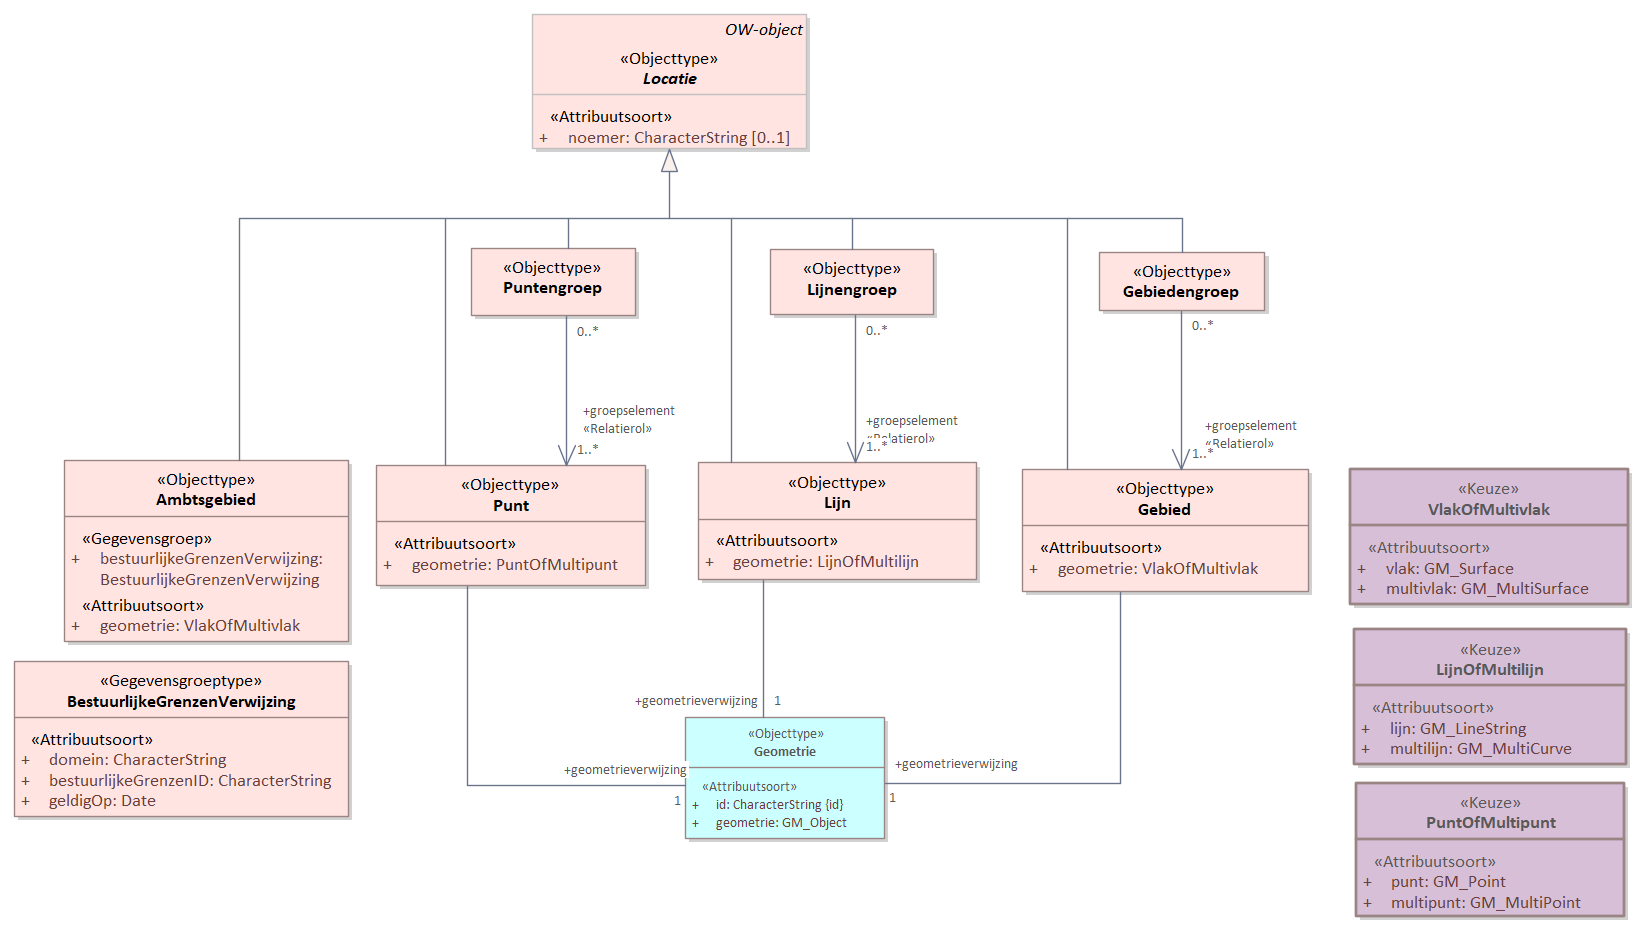
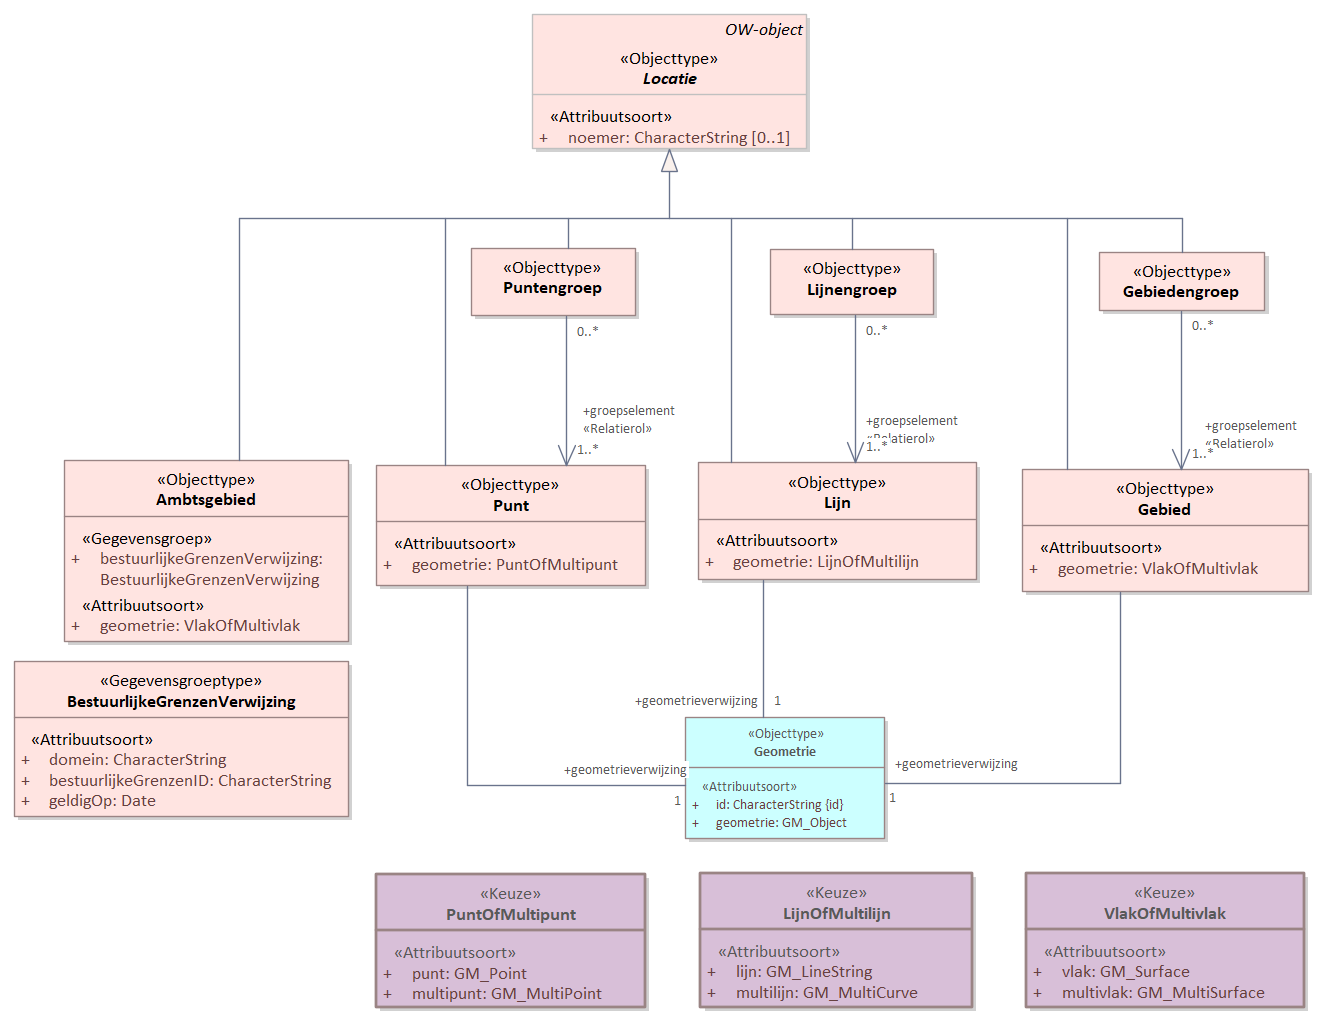
MIMCM-dso-cim-ow-1.0-0-20230213-20250630-154119

diff --git a/data/dso-cim-ow-cat.respec.html b/data/dso-cim-ow-cat.respec.html
@@ -1,4 +1,4 @@
-<!DOCTYPE HTML><section id="cat" class="normative"><h2>Gegevensdefinitie</h2><!--MIMCM-dso-cim-ow-1.0-0-20230213-20250630-151330 imvertor 4.3.0--><section id="global_packages"><h3>Model   dso-cim-ow</h3><section id="EAID_E3A46D6F_3ED0_4808_82AD_D7173DDFDAC4"><h4>   OW-OP - overzicht</h4><div class="imageinfo overview"><figure class="uml-diagram"><img id="EAID_E3A46D6F_3ED0_4808_82AD_D7173DDFDAC4" src="data/Images/EAID_E3A46D6F_3ED0_4808_82AD_D7173DDFDAC4.png" usemap="#imagemap-EAID_E3A46D6F_3ED0_4808_82AD_D7173DDFDAC4" alt="Diagram: OW-objecten maken een Regeling machine leesbaar en horen altijd bij precies één Regeling. OP-objectAnnotatie objecten zij OW-objecten die een 1 op 1 koppeling met een wId element in een Regeling hebben. Alle andere OW-objecten die bij de Regeling horen zijn via relaties aan de OP-objectannotatie en dus aan een DocumentComponent gekoppeld. Er zijn twee soorten annotaties: In Regelingen met artikelstructuur worden RegeltekstAnnotaties gebruikt die altijd naar een Artikel of Lid en verwijzen. In regelingen met een vrije-tekststrutuur verwijst een OP-objectannotatie altijd naar een Divisie of Divisietekst"><figcaption> ‒ Diagram: OW-OP</figcaption></figure><map name="imagemap-EAID_E3A46D6F_3ED0_4808_82AD_D7173DDFDAC4"><area shape="rect" alt="OW-object" coords="193,23,401,145" href="#global_class_OWaanlevering_OWobject"><area shape="rect" alt="VrijetekstAnnotatie" coords="295,365,510,487" href="#global_class_Vrijetekststructuur_VrijetekstAnnotatie"><area shape="rect" alt="RegeltekstAnnotatie" coords="100,365,267,476" href="#global_class_Artikelstructuur_RegeltekstAnnotatie"><area shape="rect" alt="OP-objectAnnotatie" coords="193,209,369,263" href="#global_class_OWaanlevering_OPobjectAnnotatie"></map><p>
+<!DOCTYPE HTML><section id="cat" class="normative"><h2>Gegevensdefinitie</h2><!--MIMCM-dso-cim-ow-1.0-0-20230213-20250630-154119 imvertor 4.3.0--><section id="global_packages"><h3>Model   dso-cim-ow</h3><section id="EAID_E3A46D6F_3ED0_4808_82AD_D7173DDFDAC4"><h4>   OW-OP - overzicht</h4><div class="imageinfo overview"><figure class="uml-diagram"><img id="EAID_E3A46D6F_3ED0_4808_82AD_D7173DDFDAC4" src="data/Images/EAID_E3A46D6F_3ED0_4808_82AD_D7173DDFDAC4.png" usemap="#imagemap-EAID_E3A46D6F_3ED0_4808_82AD_D7173DDFDAC4" alt="Diagram: OW-objecten maken een Regeling machine leesbaar en horen altijd bij precies één Regeling. OP-objectAnnotatie objecten zij OW-objecten die een 1 op 1 koppeling met een wId element in een Regeling hebben. Alle andere OW-objecten die bij de Regeling horen zijn via relaties aan de OP-objectannotatie en dus aan een DocumentComponent gekoppeld. Er zijn twee soorten annotaties: In Regelingen met artikelstructuur worden RegeltekstAnnotaties gebruikt die altijd naar een Artikel of Lid en verwijzen. In regelingen met een vrije-tekststrutuur verwijst een OP-objectannotatie altijd naar een Divisie of Divisietekst"><figcaption> ‒ Diagram: OW-OP</figcaption></figure><map name="imagemap-EAID_E3A46D6F_3ED0_4808_82AD_D7173DDFDAC4"><area shape="rect" alt="OW-object" coords="193,23,401,145" href="#global_class_OWaanlevering_OWobject"><area shape="rect" alt="VrijetekstAnnotatie" coords="295,365,510,487" href="#global_class_Vrijetekststructuur_VrijetekstAnnotatie"><area shape="rect" alt="RegeltekstAnnotatie" coords="100,365,267,476" href="#global_class_Artikelstructuur_RegeltekstAnnotatie"><area shape="rect" alt="OP-objectAnnotatie" coords="193,209,369,263" href="#global_class_OWaanlevering_OPobjectAnnotatie"></map><p>
                         <p>OW-objecten maken een Regeling machine leesbaar en horen altijd bij precies één Regeling.  OP-objectAnnotatie objecten zij OW-objecten die een 1 op 1 koppeling met een wId element in een Regeling hebben. Alle andere OW-objecten die bij de Regeling horen zijn via relaties aan de OP-objectannotatie en dus aan een DocumentComponent gekoppeld.</p>
                         <p>Er zijn twee soorten annotaties: </p>
                         <p>In Regelingen met artikelstructuur worden RegeltekstAnnotaties gebruikt die  altijd naar een Artikel of Lid en verwijzen. In regelingen met een vrije-tekststrutuur verwijst een OP-objectannotatie altijd naar een Divisie of Divisietekst</p>
@@ -248,11 +248,11 @@
                
                <h6>Overzicht constraints  </h6>
                   <table style="width: 100%;"><colgroup style="width: 30%;"></colgroup><colgroup style="width: 70%;"></colgroup><tbody><tr><th>Naam</th><th>Uitleg</th></tr><tr><th>
-                           <a class="link" href="#detail_d52036e2774">
+                           <a class="link" href="#detail_d52045e2774">
                               één type Juridische regel per Regeltekst
                            </a>
                         </th><td></td></tr><tr><th>
-                           <a class="link" href="#detail_d52036e2787">
+                           <a class="link" href="#detail_d52045e2787">
                               indien Artikel is onderverdeeld in Leden, annotaties alleen op Leden
                            </a>
                         </th><td></td></tr></tbody></table>
@@ -936,10 +936,10 @@ de som van de locatie van de juridische regels die verwijzen naar dezelfde regel
                                  
                            </td></tr><tr><th>Mogelijk geen waarde</th><td>Nee</td></tr></tbody></table>
                   </div>
-                  <div class="deepheader" id="detail_d52036e2774"><h7>Constraint details  <a href="#global_class_Artikelstructuur_RegeltekstAnnotatie">RegeltekstAnnotatie</a> één type Juridische regel per Regeltekst</h7>
+                  <div class="deepheader" id="detail_d52045e2774"><h7>Constraint details  <a href="#global_class_Artikelstructuur_RegeltekstAnnotatie">RegeltekstAnnotatie</a> één type Juridische regel per Regeltekst</h7>
                      <table style="width: 100%;"><colgroup style="width: 30%;"></colgroup><colgroup style="width: 70%;"></colgroup><tbody><tr><th>OCL</th><td>Er zijn drie subtypen van Juridische regels onderkend, namelijk: Regel voor iedereen, instructieregel en omgevingswaarderegel. Het is niet toegestaan twee van deze typen Juridische regel te vermengen in hetzelfde Artikel (Regeltekst).</td></tr></tbody></table>
                   </div>
-                  <div class="deepheader" id="detail_d52036e2787"><h7>Constraint details  <a href="#global_class_Artikelstructuur_RegeltekstAnnotatie">RegeltekstAnnotatie</a> indien Artikel is onderverdeeld in Leden, annotaties alleen op Leden</h7>
+                  <div class="deepheader" id="detail_d52045e2787"><h7>Constraint details  <a href="#global_class_Artikelstructuur_RegeltekstAnnotatie">RegeltekstAnnotatie</a> indien Artikel is onderverdeeld in Leden, annotaties alleen op Leden</h7>
                      <table style="width: 100%;"><colgroup style="width: 30%;"></colgroup><colgroup style="width: 70%;"></colgroup><tbody><tr><th>OCL</th><td>Deze constraint houdt in dat als er een Juridische regel is die (via een Regeltekst) verwijst naar een Lid in een Artikel, er geen verwijzingen mogen voorkomen die verwijzen naar het Artikel waarin dat Lid voorkomt. Kortom indien het artikel is onderverdeeld in Leden, dan mag er alleen geannoteerd worden op Leden.</td></tr></tbody></table>
                   </div>
                </section>
@@ -1247,7 +1247,7 @@ Dit kenmerk geeft nadere informatie in aanvulling op het type instructieregel, i
             
             
             
-         </section></section><section id="global_package_Locatie"><h3>Domein   Locatie</h3><section id="EAID_73DE0CD2_3281_45f6_8BA4_3A0869631893"><h4>   Locaties - detail</h4><div class="imageinfo "><figure class="uml-diagram"><img id="EAID_73DE0CD2_3281_45f6_8BA4_3A0869631893" src="data/Images/EAID_73DE0CD2_3281_45f6_8BA4_3A0869631893.png" usemap="#imagemap-EAID_73DE0CD2_3281_45f6_8BA4_3A0869631893" alt="Diagram: Overzicht van de verschillende types Locatie die kunnen voorkomen in het OW deel van besluiten"><figcaption> ‒ Diagram: Locaties</figcaption></figure><map name="imagemap-EAID_73DE0CD2_3281_45f6_8BA4_3A0869631893"><area shape="rect" alt="PuntOfMultipunt" coords="1356,783,1625,917" href="#global_class_Locatie_PuntOfMultipunt"><area shape="rect" alt="LijnOfMultilijn" coords="1354,629,1627,765" href="#global_class_Locatie_LijnOfMultilijn"><area shape="rect" alt="BestuurlijkeGrenzenVerwijzing" coords="14,661,349,817" href="#global_class_Locatie_BestuurlijkeGrenzenVerwijzing"><area shape="rect" alt="VlakOfMultivlak" coords="1350,469,1629,605" href="#global_class_Locatie_VlakOfMultivlak"><area shape="rect" alt="Ambtsgebied" coords="64,460,349,642" href="#global_class_Locatie_Ambtsgebied"><area shape="rect" alt="Lijnengroep" coords="770,249,934,315" href="#global_class_Locatie_Lijnengroep"><area shape="rect" alt="Puntengroep" coords="471,248,636,316" href="#global_class_Locatie_Puntengroep"><area shape="rect" alt="Lijn" coords="698,462,977,580" href="#global_class_Locatie_Lijn"><area shape="rect" alt="Punt" coords="376,465,646,586" href="#global_class_Locatie_Punt"><area shape="rect" alt="Gebiedengroep" coords="1099,252,1265,311" href="#global_class_Locatie_Gebiedengroep"><area shape="rect" alt="Gebied" coords="1022,469,1309,592" href="#global_class_Locatie_Gebied"><area shape="rect" alt="Locatie" coords="532,14,807,149" href="#global_class_Locatie_Locatie"></map><p>
+         </section></section><section id="global_package_Locatie"><h3>Domein   Locatie</h3><section id="EAID_73DE0CD2_3281_45f6_8BA4_3A0869631893"><h4>   Locaties - overzicht</h4><div class="imageinfo overview"><figure class="uml-diagram"><img id="EAID_73DE0CD2_3281_45f6_8BA4_3A0869631893" src="data/Images/EAID_73DE0CD2_3281_45f6_8BA4_3A0869631893.png" usemap="#imagemap-EAID_73DE0CD2_3281_45f6_8BA4_3A0869631893" alt="Diagram: Overzicht van de verschillende types Locatie die kunnen voorkomen in het OW deel van besluiten"><figcaption> ‒ Diagram: Locaties</figcaption></figure><map name="imagemap-EAID_73DE0CD2_3281_45f6_8BA4_3A0869631893"><area shape="rect" alt="PuntOfMultipunt" coords="376,874,646,1008" href="#global_class_Locatie_PuntOfMultipunt"><area shape="rect" alt="LijnOfMultilijn" coords="700,873,973,1008" href="#global_class_Locatie_LijnOfMultilijn"><area shape="rect" alt="BestuurlijkeGrenzenVerwijzing" coords="14,661,349,817" href="#global_class_Locatie_BestuurlijkeGrenzenVerwijzing"><area shape="rect" alt="VlakOfMultivlak" coords="1026,873,1305,1008" href="#global_class_Locatie_VlakOfMultivlak"><area shape="rect" alt="Ambtsgebied" coords="64,460,349,642" href="#global_class_Locatie_Ambtsgebied"><area shape="rect" alt="Lijnengroep" coords="770,249,934,315" href="#global_class_Locatie_Lijnengroep"><area shape="rect" alt="Puntengroep" coords="471,248,636,316" href="#global_class_Locatie_Puntengroep"><area shape="rect" alt="Lijn" coords="698,462,977,580" href="#global_class_Locatie_Lijn"><area shape="rect" alt="Punt" coords="376,465,646,586" href="#global_class_Locatie_Punt"><area shape="rect" alt="Gebiedengroep" coords="1099,252,1265,311" href="#global_class_Locatie_Gebiedengroep"><area shape="rect" alt="Gebied" coords="1022,469,1309,592" href="#global_class_Locatie_Gebied"><area shape="rect" alt="Locatie" coords="532,14,807,149" href="#global_class_Locatie_Locatie"></map><p>
                         <p>Overzicht van de verschillende types Locatie die kunnen voorkomen in het OW deel van besluiten</p>
                      </p></div></section><section><h4>Objecttypen   </h4>
             <section id="global_class_Locatie_Gebied"><h5>   Gebied</h5>
@@ -3860,7 +3860,7 @@ Het gaat hierbij niet om de Kaart zoals bedoeld in het objecttype, maar om de ka
             
             
             
-         </section></section></section><section id="lis" class="normative"><h2>Inhoud van waardelijsten</h2><!--MIMCM-dso-cim-ow-1.0-0-20230213-20250630-151330 imvertor 4.3.0--><section><h3>Referentielijst inhoud   </h3><section id="detail_class_Artikelstructuur_Activiteitengroep"><h4>Referentielijst  Activiteitengroep</h4>
+         </section></section></section><section id="lis" class="normative"><h2>Inhoud van waardelijsten</h2><!--MIMCM-dso-cim-ow-1.0-0-20230213-20250630-154119 imvertor 4.3.0--><section><h3>Referentielijst inhoud   </h3><section id="detail_class_Artikelstructuur_Activiteitengroep"><h4>Referentielijst  Activiteitengroep</h4>
             <table style="width: 100%;" class="list"><colgroup></colgroup><tbody><tr><td>
                      
                      
